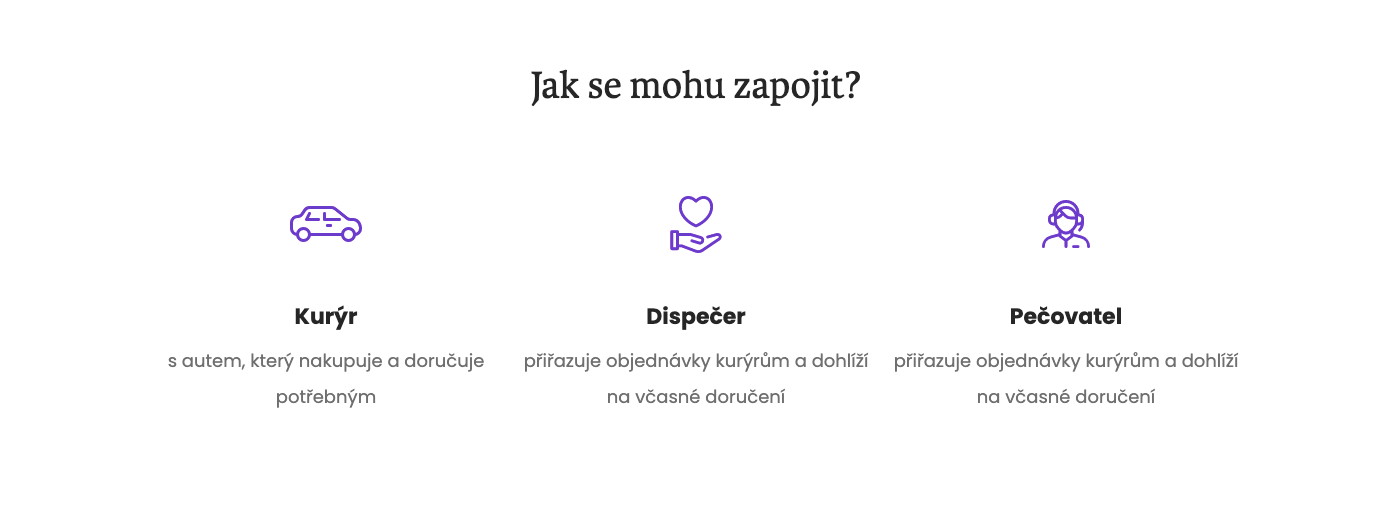
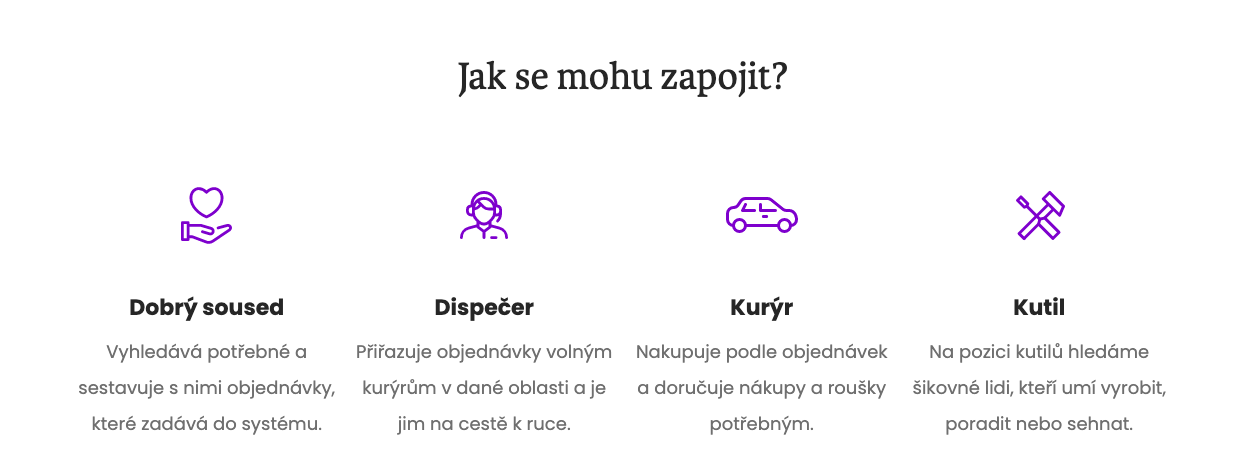
Add Tim and Neighbour positions

diff --git a/app/Presenters/PublicDemandsPresenter.php b/app/Presenters/PublicDemandsPresenter.php
@@ -2,8 +2,10 @@
 
 namespace SousedskaPomoc\Presenters;
 
+use SousedskaPomoc\Entities\Volunteer;
 use SousedskaPomoc\Repository\AddressRepository;
 use SousedskaPomoc\Repository\OrderRepository;
+use SousedskaPomoc\Repository\VolunteerRepository;
 
 class PublicDemandsPresenter extends BasePresenter
 {
@@ -13,9 +15,17 @@ class PublicDemandsPresenter extends BasePresenter
     /** @var OrderRepository */
     protected $orderRepository;
 
+    /** @var VolunteerRepository */
+    protected $volunteerRepository;
+
     public function injectOrderRepository(OrderRepository $orderRepository)
     {
         $this->orderRepository = $orderRepository;
+    }
+
+    public function injectVolunteerRepository(VolunteerRepository $volunteerRepository)
+    {
+        $this->volunteerRepository = $volunteerRepository;
     }
 
     public function injectAddressRepository(AddressRepository $addressRepository)
@@ -38,5 +48,13 @@ class PublicDemandsPresenter extends BasePresenter
     public function renderDetail($id)
     {
         $this->template->demand = $this->orderRepository->getById($id);
+    }
+
+    public function handleSelfAssign($id)
+    {
+        /** @var Volunteer $volunteer */
+        $volunteer = $this->volunteerRepository->find($this->user->getId());
+        $this->orderRepository->assignOrder($volunteer, $id);
+        $this->flashMessage("Poptávku jsme vám přiřadili můžete si pustit do její realizace");
     }
 }

diff --git a/app/Entities/Address.php b/app/Entities/Address.php
@@ -430,6 +430,14 @@ class Address
         return $this;
     }
 
+    public function getFullAddress()
+    {
+        return $this->getPostalCode() . " - " .
+            $this->getCity() . ", " .
+            $this->getStreet() . " " .
+            $this->getHouseNumber();
+    }
+
     public function getCityWithPostalCode()
     {
         return $this->getPostalCode() . " - " . $this->getCity();

diff --git a/app/Repository/OrderRepository.php b/app/Repository/OrderRepository.php
@@ -144,7 +144,7 @@ class OrderRepository extends DoctrineEntityRepository
     {
         return $this->findBy(['stat' => 'delivered']);
     }
-
+    
     public function assignOrder($courier, $order_id)
     {
         /** @var Order $order */
